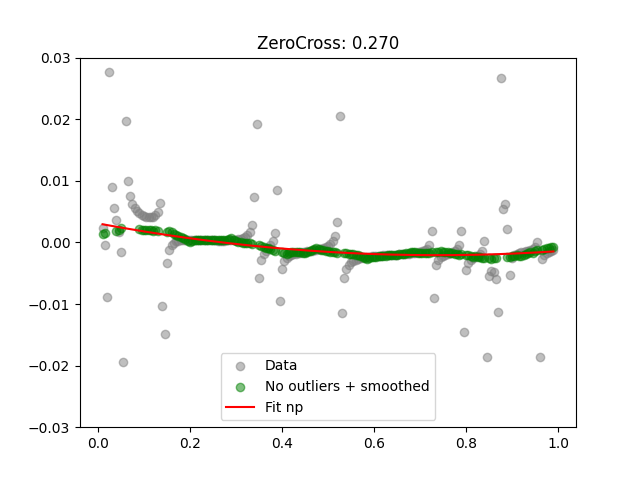
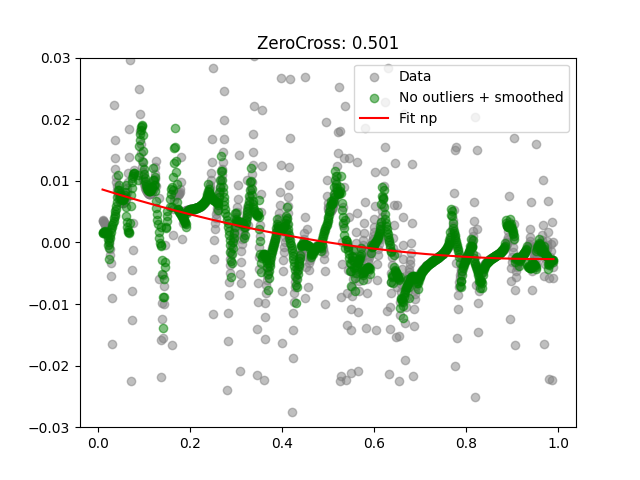
update

diff --git a/RELOPEC_algorithm.py b/RELOPEC_algorithm.py
@@ -24,6 +24,7 @@ import sys
 import struct
 import random
 from scipy import signal
+import copy
 
 USE_CACHED_DATA = False
 USE_IEC61850_DATA = False
@@ -38,7 +39,8 @@ estFaultType = None
 estFaultStableTime = None
 
 # Making arrays for k and fictitious fault impedance
-k=np.arange(0.01,0.99+0.005,0.005)
+# k=np.arange(0.01,0.99+0.005,0.005)
+k=np.arange(0.01,0.99+0.001,0.001)
 LfFictArray=np.zeros((len(k),1))
 RfFictArray=np.zeros((len(k),1))
 
@@ -140,9 +142,9 @@ def getData():
         Iabc = MatlabSimDataSet['Iabc'].transpose()
         Vabc = MatlabSimDataSet['Vabc'].transpose()
 
-        t_resampled = t[0:len(t):2]
-        Iabc_resampled = Iabc[0:len(t):2]
-        Vabc_resampled = Vabc[0:len(t):2]
+        t_resampled = t#[0:len(t):2]
+        Iabc_resampled = Iabc#[0:len(t):2]
+        Vabc_resampled = Vabc#[0:len(t):2]
 
         return t_resampled[MatlabSimDataSetIndex,0], Vabc_resampled[MatlabSimDataSetIndex], Iabc_resampled[MatlabSimDataSetIndex]
 
@@ -198,15 +200,20 @@ if __name__=="__main__":
 
             # Fill array for first time
             sample_cnt = 0
-            while(sample_cnt <= 98):
+            while(sample_cnt <= 198):
                 t, V, I = getData()
                 Iabc = np.vstack((Iabc, I))
                 Vabc = np.vstack((Vabc, V))
                 tabc = np.append(tabc, t)
                 sample_cnt = sample_cnt + 1
 
+            # Make huge array where we keep track of previous data
+            tabc_full = copy.copy(tabc)
+            Vabc_full = copy.copy(Vabc)
+            Iabc_full = copy.copy(Iabc)
+
             # the Z from 200 samples earlier
-            previousZarray = np.zeros(100)
+            previousZarray = np.zeros(200)
 
             # Fault detection loop
             while(1):
@@ -214,7 +221,7 @@ if __name__=="__main__":
                 start = time.time()
 
                 # Do the calculations on the updated data with the latest 200st array for comparing Z
-                estFaultType,estFaultIncepTime,estFaultStableTime, Z = myFunctionFaultSelection.RealTimeFaultIndentification(Iabc, Vabc, tabc[-1], previousZarray[-100])  
+                estFaultType,estFaultIncepTime,estFaultStableTime, Z = myFunctionFaultSelection.RealTimeFaultIndentification(Iabc, Vabc, tabc[-1], previousZarray[-200])  
                 if estFaultType != 0:
                     print("Fault detected!")
                     break
@@ -230,28 +237,44 @@ if __name__=="__main__":
                 Vabc[-1] = V
                 tabc[-1] = t
 
+                if len(tabc_full) <= 1000:
+                    # Append data to full array if not full yet
+                    Iabc_full = np.vstack((Iabc_full, I))
+                    Vabc_full = np.vstack((Vabc_full, V))
+                    tabc_full = np.append(tabc_full, t)
+                else:
+                    Iabc_full = np.roll(Iabc_full, -1, axis=0)
+                    Vabc_full = np.roll(Vabc_full, -1, axis=0)
+                    tabc_full = np.roll(tabc_full, -1, axis=0)
+                    Iabc_full[-1] = I
+                    Vabc_full[-1] = V
+                    tabc_full[-1] = t
+
                 # Add Z to previous array and roll
                 previousZarray = np.roll(previousZarray, -1)
                 previousZarray[-1] = Z
 
                 end = time.time()
                 # print((end -start)*1000) # in milliseconds
-        
-            plt.plot(tabc, Vabc)
-            plt.show()
 
             # Second part
             print("Filter fundamental")
-            I_trans,V_trans,tn=myFunctionDataProcess.RealTimeFilterFundamental(Iabc,Vabc,tabc,nargout=3)
+            I_trans,V_trans,tn=myFunctionDataProcess.RealTimeFilterFundamental(Iabc_full,Vabc_full,tabc_full,nargout=3)
+            # I_trans,V_trans,tn=myFunctionDataProcess.FilterFundamental(f,Ts,Iabc_full,Vabc_full,tabc_full,nargout=3)
+
+            plt.plot(tabc_full, Vabc_full[:,0])
+            plt.plot(tn, V_trans[0])
+            plt.show()
 
             print("Start fault detection")
-            pool = mp.Pool(processes=mp.cpu_count(), initializer=findFaultInit, initargs=(I_trans, V_trans, k, tn, estFaultType, estFaultStableTime))
-            LfFictArray = pool.map(findFault, np.arange(0,len(k)))
+            # pool = mp.Pool(processes=mp.cpu_count(), initializer=findFaultInit, initargs=(I_trans, V_trans, k, tn, estFaultType, estFaultStableTime))
+            # LfFictArray = pool.map(findFault, np.arange(0,len(k)))
 
-            # for n in np.arange(0,len(k)-1,1):
-            #     vF,i2,X=myFunctionCalcNetwork.NetworkParamNoCap(I_trans,V_trans,k[n],L_line,R_line,C_line,Ts,tn,Lg,Rg)
-            #     LfFict,RfFict,ZfFict=myFunctionCalcFaultLocation.Fault(vF,i2,X,Ts,tn,estFaultType,estFaultStableTime)
-            #     LfFictArray[n]=LfFict
+            for n in np.arange(0,len(k)-1,1):
+                vF,i2,X=myFunctionCalcNetwork.NetworkParamNoCap(I_trans,V_trans,k[n],L_line,R_line,C_line,Ts,tn,Lg,Rg)
+                LfFict,RfFict,ZfFict=myFunctionCalcFaultLocation.Fault(vF,i2,X,Ts,tn,estFaultType,estFaultStableTime)
+                LfFictArray[n]=LfFict
+                print(n)
 
             # Find zero crossing and hence the distance to the fault
             print("Find zero cross")

diff --git a/myFunctionDataProcess.py b/myFunctionDataProcess.py
@@ -21,11 +21,11 @@ def RealTimeFilterFundamental(Iabc=None,Vabc=None,t=None,*args,**kwargs):
     Iabc=Iabc.transpose()
     I_wd=Iabc
     y=np.fft.fft(I_wd.transpose(), axis=0)
-    x = fftfreq(len(I_wd[0]), 1 / 4000)
+    x = fftfreq(len(I_wd[0]), 1 / 10000)
     ytrans=np.zeros((len(I_wd[0]),3))
     ytrans = ytrans.astype('complex64')
-    ytrans[4:100,:]=y[4:100,:]
-    ytrans[-1-99: -1-3+1,:]=y[-1-99:-1-3+1,:]
+    ytrans[15:len(y[:,0])-10,:]=y[15:len(y[:,0])-10,:]
+    # ytrans[-1-1000:-1-9+1,:]=y[-1-1000:-1-9+1,:]
     Itr_wd=ifft(ytrans, axis=0).real
     I_trans = Itr_wd.transpose()
 
@@ -33,14 +33,17 @@ def RealTimeFilterFundamental(Iabc=None,Vabc=None,t=None,*args,**kwargs):
     Vabc=Vabc.transpose()
     V_wd=Vabc
     y=np.fft.fft(V_wd.transpose(), axis=0)
-    x = fftfreq(len(V_wd[0]), 1 / 4000)
+    x = fftfreq(len(V_wd[0]), 1 / 10000)
     ytrans=np.zeros((len(V_wd[0]),3))
     ytrans = ytrans.astype('complex64')
-    ytrans[4:100,:]=y[4:100,:]
-    ytrans[-1-99: -1-3+1,:]=y[-1-99:-1-3+1,:]
+    ytrans[15:len(y[:,0])-10,:]=y[15:len(y[:,0])-10,:]
+    # ytrans[: -1-9+1,:]=y[:-1-9+1,:]
     Vtr_wd=ifft(ytrans, axis=0).real
     V_trans = Vtr_wd.transpose()
-    
+
+    I_trans=I_trans[:,200:]
+    V_trans=V_trans[:,200:]
+    t=t[200:]
 
     return I_trans,V_trans,t
 
@@ -58,7 +61,8 @@ def FilterFundamental(f=None,Ts=None,Iabc=None,Vabc=None,t=None,*args,**kwargs):
 
         # Current
         I_wd=Iabc[:,n:wd+n+1]
-        y=fft(I_wd.transpose(), axis=0)
+        y=fft(I_wd, axis=0)
+        x = fftfreq(len(I_wd[0]), 1 / 10000)
         ytrans=np.zeros((len(I_wd[0]),3))
         ytrans = ytrans.astype('complex64')
 

diff --git a/myFunctionFaultSelection.py b/myFunctionFaultSelection.py
@@ -1,5 +1,5 @@
 import numpy as np
-from scipy.fft import fft, ifft
+from scipy.fft import fft, ifft, fftfreq
 import copy
 import matplotlib.pyplot as plt
 # from numba import jit, objmode
@@ -48,6 +48,7 @@ def RealTimeFaultIndentification(Iabc=None,Vabc=None,t=None,minPreviousZ=None,*a
     # Maybe this can be optimized
     # with objmode(Ifft='complex128[:]'):
     Ifft=fft(wdI)
+    x = fftfreq(len(wdI[:,0]), 1 / 10000)
     # with objmode(Vfft='complex128[:]'):
     Vfft=fft(wdV)
 
@@ -98,16 +99,6 @@ def RealTimeFaultIndentification(Iabc=None,Vabc=None,t=None,minPreviousZ=None,*a
         print(estFaultIncepTime)
         print("estFaultStableTime:", end = ' ')
         print(estFaultStableTime)
-    
-    # global temp
-    # temp = temp + 1
-
-    # if temp > 100:
-    #     plt.scatter(t, min(Z))
-    #     plt.scatter(t, minPreviousZ)
-    #     plt.pause(0.00001)
-
-    #     temp = 0
     
     return estFaultType,estFaultIncepTime,estFaultStableTime, min(Z)
 

diff --git a/myFunctionCalcFaultLocation.py b/myFunctionCalcFaultLocation.py
@@ -78,7 +78,7 @@ def smooth(y, box_pts):
     return y_smooth 
 
 def removeOutliers(x, y):
-    y = np.array(y)
+    y = np.array(y[:,0])
     x = np.array(x)
     mean = np.mean(y)
     standard_deviation = np.std(y)
